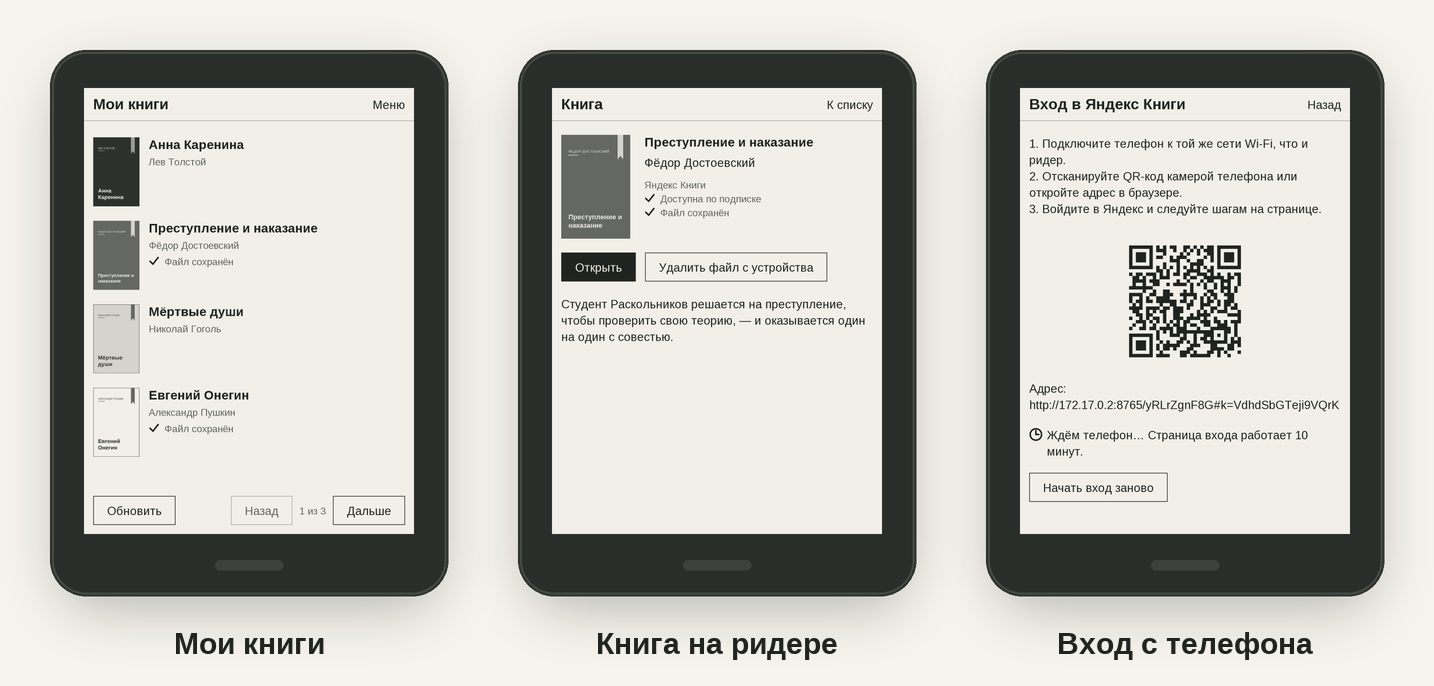
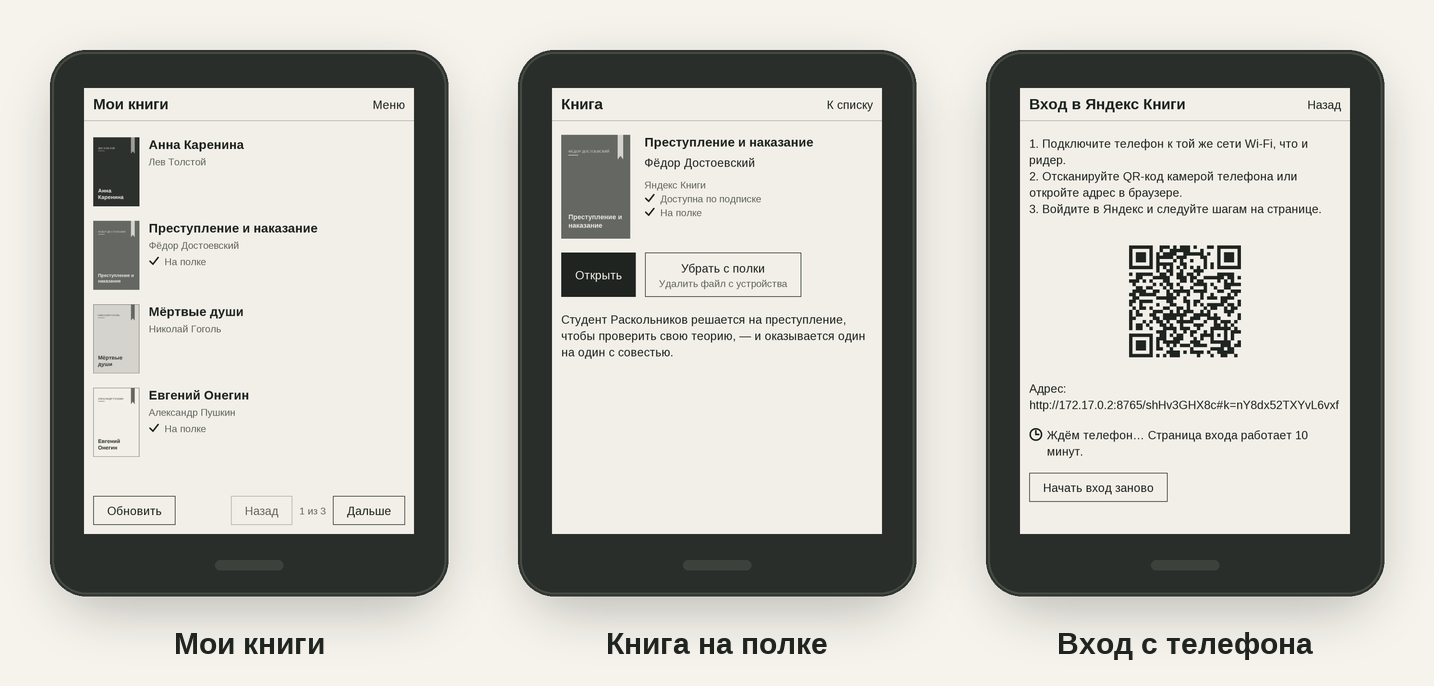
Poklio 0.1.2: раздел «На полке», новые снимки

diff --git a/README.md b/README.md
@@ -28,7 +28,7 @@
     </td>
     <td width="33%" valign="top">
       <b>Книга в одно нажатие</b><br>
-      «Получить книгу» — и она уже в библиотеке ридера, открывается в штатной читалке.
+      «Положить на полку» — и она уже в библиотеке ридера, открывается в штатной читалке.
     </td>
     <td width="33%" valign="top">
       <b>Поиск по каталогу</b><br>
@@ -79,7 +79,7 @@
     </td>
     <td width="33%" valign="top">
       <b>3. Читайте</b><br>
-      Выберите книгу в «Моих книгах», нажмите «Получить книгу», затем «Открыть».
+      Выберите книгу в «Моих книгах», нажмите «Положить на полку», затем «Открыть».
     </td>
   </tr>
 </table>
@@ -247,7 +247,7 @@ rm /Volumes/PB700K3/applications/icons/._*
 <details>
 <summary><b>Где хранятся книги и как их удалить?</b></summary>
 
-В папке `Books/Poklio`: они видны в библиотеке PocketBook. «Удалить файл с устройства» в карточке удаляет файл, в библиотеке Яндекс Книг книга остаётся.
+В папке `Books/Poklio`: они видны в библиотеке PocketBook. «Убрать с полки» в карточке удаляет файл, в библиотеке Яндекс Книг книга остаётся. Все книги на ридере — в разделе меню «На полке», он работает без сети.
 </details>
 
 <details>

diff --git a/README.en.md b/README.en.md
@@ -27,8 +27,8 @@
       The books in your Yandex Books account, with covers, right on your PocketBook.
     </td>
     <td width="33%" valign="top">
-      <b>One tap to get a book</b><br>
-      Tap Get book and it's in your reader's library, ready to open in the built-in reader app.
+      <b>One tap to your shelf</b><br>
+      Tap Put on shelf and it's in your reader's library, ready to open in the built-in reader app.
     </td>
     <td width="33%" valign="top">
       <b>Catalog search</b><br>
@@ -79,7 +79,7 @@ An estimate: downloads of the app from the releases page, not counting over-the-
     </td>
     <td width="33%" valign="top">
       <b>3. Read</b><br>
-      Pick a book in My books, tap Get book, then Open.
+      Pick a book in My books, tap Put on shelf, then Open.
     </td>
   </tr>
 </table>
@@ -247,7 +247,7 @@ Yandex Books for now (experimental). Litres, WB Books and others may come later.
 <details>
 <summary><b>Where are books stored, and how do I delete them?</b></summary>
 
-In the `Books/Poklio` folder, so they show up in your PocketBook library. Delete file from device on the book card removes the file; the book stays in your Yandex Books library.
+In the `Books/Poklio` folder, so they show up in your PocketBook library. Remove from shelf on the book card removes the file; the book stays in your Yandex Books library. All books on your reader are in the On the shelf section of the menu, which works offline.
 </details>
 
 <details>
